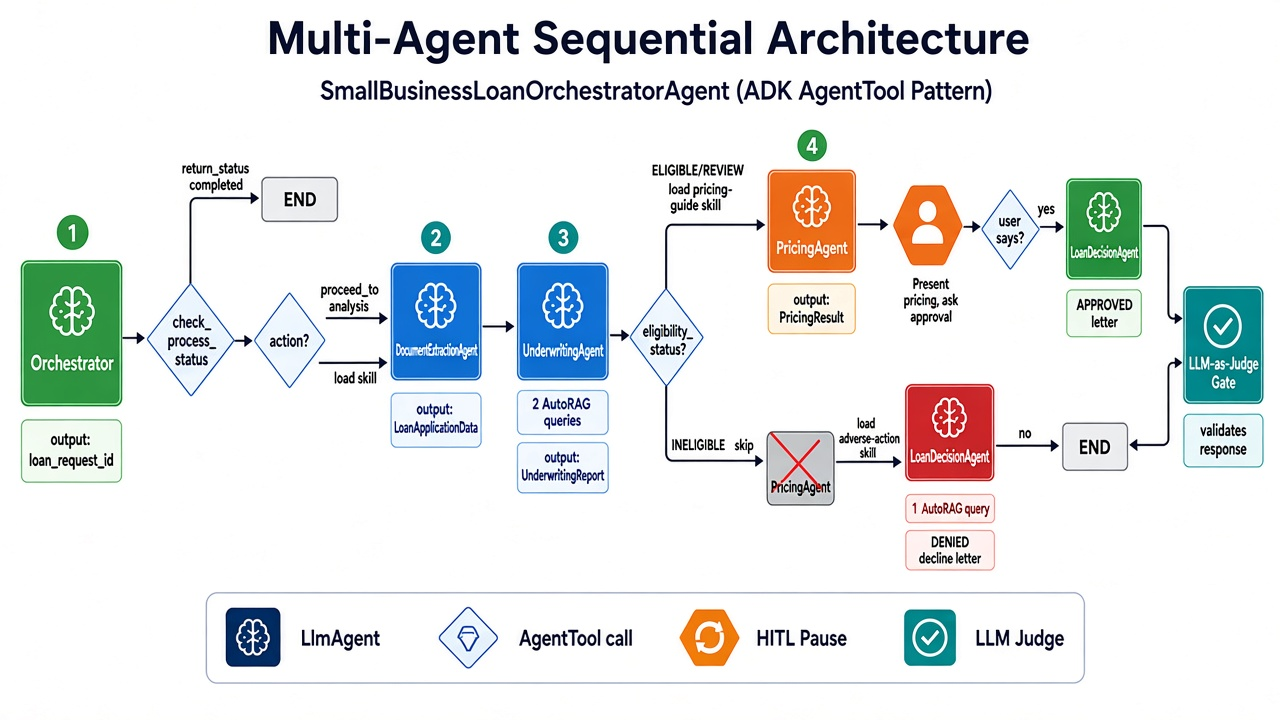
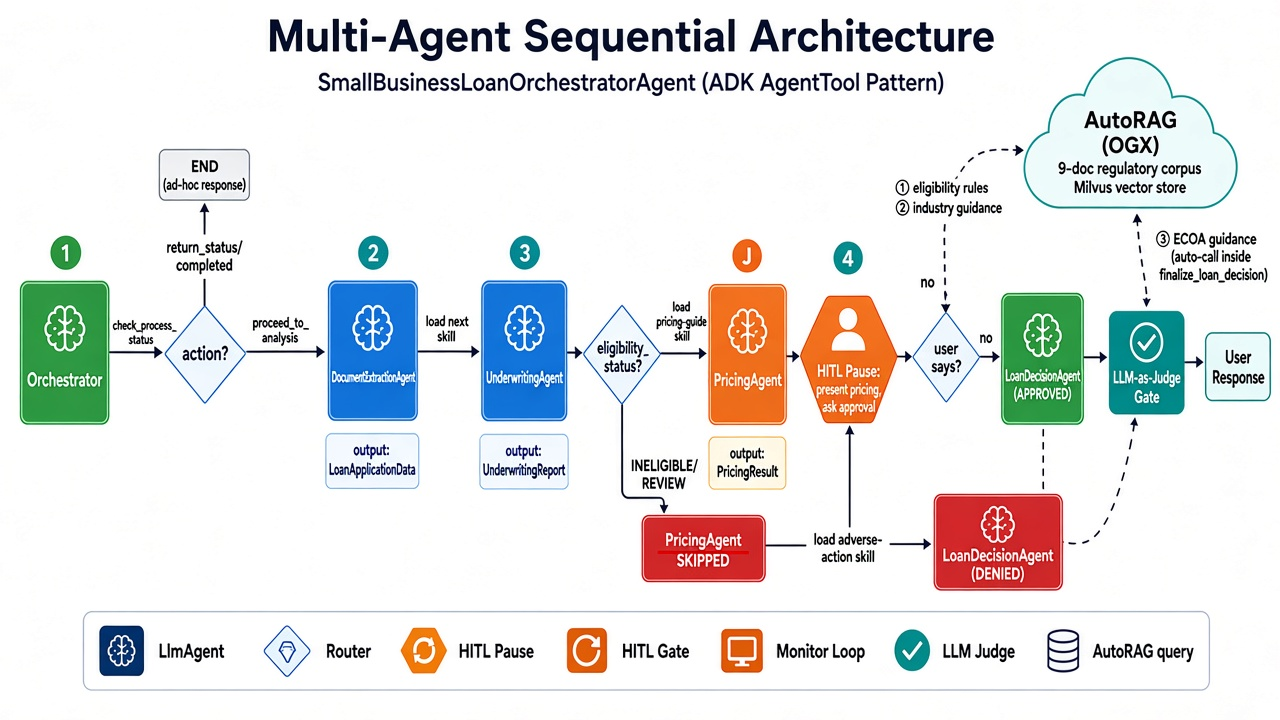
Fix architecture docs: add AutoRAG as explicit system participant across all diagrams
- §2 Pipeline: AutoRAG now shown as separate OGX system with 3 numbered
  query arrows (2 from UnderwritingAgent, 1 from LoanDecisionAgent)
- §2 Pipeline: Add 'Multi-Point AutoRAG Integration' section distinguishing
  LLM tool calls (retrieve_underwriting_context) from internal auto-calls
  (retrieve_regulatory_guidance inside finalize_loan_decision)
- §3 Connectivity: Add max_num_results=3, graceful degradation pattern,
  4th unused retrieve_pricing_guidance(), current vector_store_id
- §4 Tool Matrix: Add 'Internal AutoRAG Calls' section showing which tools
  make RAG queries internally; add cross-turn SQLite fallback detail
- §5 Data Flow: Add AutoRAG as sequence diagram participant with explicit
  query/response arrows and chunk counts; add _load_step_data_from_db()
  cross-turn fallback documentation
- Regenerate images 02, 04, 05 with AutoRAG as visible system
- Update speaker notes with RAG call distinction and query details

diff --git a/docs/architecture.md b/docs/architecture.md
@@ -94,13 +94,27 @@ The agent uses ADK's `AgentTool` pattern for sequential orchestration: 1 orchest
 
 **Source**: [`small_business_loan_agent/agent.py`](../small_business_loan_agent/agent.py)
 
-| Agent | `output_key` | Model | Tools | Callbacks |
+| Agent | `output_key` | Model | Tools | RAG Calls | Callbacks |
+|---|---|---|---|---|---|
+| **SmallBusinessLoanOrchestratorAgent** | — | Gemini 2.5 Flash | `SkillToolset`, `check_process_status`, `AgentTool(×4)` | — | `before_agent`: extract request ID · `before_tool`: halt/skip guard · `after_agent`: LLM-as-Judge |
+| **DocumentExtractionAgent** | `DocumentExtractionAgent_output` | Gemini 2.5 Flash | — (no tools) | — | `before_agent`: state check · `before_model`: inject document · `after_agent`: state logging |
+| **UnderwritingAgent** | `UnderwritingAgent_output` | Gemini 2.5 Flash | `get_internal_business_data`, `retrieve_underwriting_context` | 2 AutoRAG queries (LLM tool call) | `before_agent`: state check + load rules · `after_agent`: state logging + INELIGIBLE skip |
+| **PricingAgent** | `PricingAgent_output` | Gemini 2.5 Flash | `calculate_loan_pricing` | — | `before_agent`: state check · `after_agent`: state logging |
+| **LoanDecisionAgent** | `LoanDecisionAgent_output` | Gemini 2.5 Flash | `finalize_loan_decision` | 1 AutoRAG query (internal, auto) | `before_agent`: state check · `after_agent`: state logging + mark complete |
+
+### Multi-Point AutoRAG Integration
+
+The agent makes up to **3 targeted AutoRAG queries** per loan run, pulling only the most relevant regulatory text for each application's specific profile. AutoRAG queries are handled at two different levels:
+
+| Query | Function | Agent | Call Type | AutoRAG → OGX |
 |---|---|---|---|---|
-| **SmallBusinessLoanOrchestratorAgent** | — | Gemini 2.5 Flash | `SkillToolset`, `check_process_status`, `AgentTool(×4)` | `before_agent`: extract request ID · `before_tool`: halt/skip guard · `after_agent`: LLM-as-Judge |
-| **DocumentExtractionAgent** | `DocumentExtractionAgent_output` | Gemini 2.5 Flash | — (no tools) | `before_agent`: state check · `before_model`: inject document · `after_agent`: state logging |
-| **UnderwritingAgent** | `UnderwritingAgent_output` | Gemini 2.5 Flash | `get_internal_business_data`, `retrieve_underwriting_context` | `before_agent`: state check + load rules · `after_agent`: state logging + INELIGIBLE skip |
-| **PricingAgent** | `PricingAgent_output` | Gemini 2.5 Flash | `calculate_loan_pricing` | `before_agent`: state check · `after_agent`: state logging |
-| **LoanDecisionAgent** | `LoanDecisionAgent_output` | Gemini 2.5 Flash | `finalize_loan_decision` | `before_agent`: state check · `after_agent`: state logging + mark complete |
+| SBA eligibility rules | `retrieve_eligibility_rules()` | UnderwritingAgent | **LLM tool call** — the LLM decides to call `retrieve_underwriting_context()` with application facts | `/v1/vector_stores/{id}/search` |
+| Industry risk guidance | `retrieve_industry_guidance()` | UnderwritingAgent | **LLM tool call** — same tool, second query | `/v1/vector_stores/{id}/search` |
+| ECOA adverse action | `retrieve_regulatory_guidance()` | LoanDecisionAgent | **Internal function call** — called automatically inside `finalize_loan_decision()` on INELIGIBLE path | `/v1/vector_stores/{id}/search` |
+
+**Key distinction**: `retrieve_underwriting_context` is a registered ADK tool — the UnderwritingAgent LLM calls it with extracted application facts (industry, years_in_business, annual_revenue, loan_amount, naics_code). Internally it makes 2 AutoRAG searches. By contrast, `retrieve_regulatory_guidance` is called automatically inside `finalize_loan_decision` — the LoanDecisionAgent LLM never sees it as a tool.
+
+**Graceful degradation**: When AutoRAG is not configured (`AUTORAG_BASE_URL` unset), all retrieval functions return empty strings. UnderwritingAgent falls back to static `eligibility_rules.json` loaded by `before_agent_callback_with_state_check`. LoanDecisionAgent generates decline letters without regulatory text. No code change needed — `config.using_autorag()` gates all queries.
 
 ### Safety Features
 
@@ -159,13 +173,17 @@ graph TD
 
     DocAgent --> Missing{critical fields\nmissing?}
     Missing -->|yes| Halt["HALT\nmark_step_for_review\n→ ask user for data"]
-    Missing -->|no| UWAgent["2⃣ UnderwritingAgent\n2 AutoRAG queries\noutput: UnderwritingReport"]
+    Missing -->|no| UWAgent["2⃣ UnderwritingAgent\noutput: UnderwritingReport"]
 
-    UWAgent --> Eligible{eligibility_status?}
+    UWAgent -->|"LLM tool call"| RAG_UW["AutoRAG (OGX)\n2 queries:\n① eligibility rules\n② industry guidance"]
+    RAG_UW --> UWResult
+
+    UWResult["UnderwritingReport"] --> Eligible{eligibility_status?}
 
     Eligible -->|"INELIGIBLE"| SkipPrice["PricingAgent SKIPPED\n(auto-skip in callback)"]
     SkipPrice --> Skill3["load_skill\n(loan-adverse-action)"]
-    Skill3 --> LDAgent_Deny["4⃣ LoanDecisionAgent\n1 AutoRAG query\noutput: DENIED + decline letter"]
+    Skill3 --> LDAgent_Deny["4⃣ LoanDecisionAgent\noutput: DENIED + decline letter"]
+    LDAgent_Deny -->|"internal auto-call"| RAG_LD["AutoRAG (OGX)\n1 query:\n③ ECOA adverse action"]
 
     Eligible -->|"ELIGIBLE / REVIEW"| Skill2["load_skill\n(loan-pricing-guide)"]
     Skill2 --> PriceAgent["3⃣ PricingAgent\noutput: PricingResult"]
@@ -174,7 +192,7 @@ graph TD
     Approval -->|"yes"| LDAgent_Approve["4⃣ LoanDecisionAgent\noutput: APPROVED + approval letter"]
     Approval -->|"no"| Reject["Acknowledge rejection\n(END)"]
 
-    LDAgent_Deny --> Judge["after_agent:\nLLM-as-Judge gate"]
+    RAG_LD --> Judge["after_agent:\nLLM-as-Judge gate"]
     LDAgent_Approve --> Judge
     StatusReply --> Judge
     Judge --> Response["Final Response\nto User"]
@@ -210,13 +228,26 @@ The model factory selects the backend in priority order:
 
 ### AutoRAG Retrieval Details
 
-| Query | Function | Agent | What It Retrieves |
-|---|---|---|---|
-| SBA eligibility rules | `retrieve_eligibility_rules()` | UnderwritingAgent | Operating history, DSCR, loan-to-revenue, collateral thresholds |
-| Industry risk guidance | `retrieve_industry_guidance()` | UnderwritingAgent | NAICS-specific risk flags, prohibited codes (13 CFR § 120.110) |
-| ECOA adverse action | `retrieve_regulatory_guidance()` | LoanDecisionAgent | Adverse action notice requirements, 12 CFR § 1002.9 decline reason codes |
+**Source**: [`shared_libraries/rag_tools.py`](../small_business_loan_agent/shared_libraries/rag_tools.py), [`sub_agents/underwriting/rag_tools.py`](../small_business_loan_agent/sub_agents/underwriting/rag_tools.py)
 
-**Fallback**: When `AUTORAG_BASE_URL` is not set, UnderwritingAgent loads static rules from `eligibility_rules.json`. LoanDecisionAgent generates decline letters without regulatory RAG context.
+The shared `_search()` function calls AutoRAG's OGX API with `max_num_results=3` per query, returning up to 3 text chunks joined by double newlines.
+
+| # | Query | Function | Agent | Call Type | What It Retrieves |
+|---|---|---|---|---|---|
+| 1 | SBA eligibility rules | `retrieve_eligibility_rules()` | UnderwritingAgent | LLM tool call via `retrieve_underwriting_context()` | Operating history, DSCR, loan-to-revenue, collateral thresholds |
+| 2 | Industry risk guidance | `retrieve_industry_guidance()` | UnderwritingAgent | LLM tool call via `retrieve_underwriting_context()` | NAICS-specific risk flags, prohibited codes (13 CFR § 120.110) |
+| 3 | ECOA adverse action | `retrieve_regulatory_guidance()` | LoanDecisionAgent | Internal call inside `finalize_loan_decision()` | Adverse action notice requirements, 12 CFR § 1002.9 decline reason codes |
+| — | Pricing guidance | `retrieve_pricing_guidance()` | (unused) | — | Risk tier definitions, rate benchmarks — **defined but not yet wired** |
+
+**Query construction**: Each retrieval function builds a natural-language query from the application's specific profile. For example, `retrieve_eligibility_rules()` constructs: `"SBA 7(a) loan eligibility requirements for {industry} business with {years_in_business} years operating history, annual revenue {annual_revenue}, loan amount {loan_amount}"`.
+
+**Current vector store**: `vs_23c69157-2907-4576-8fe0-dc491de89d14` (seeded by `tools/seed_autorag.py`)
+
+**Fallback (graceful degradation)**:
+- When `AUTORAG_BASE_URL` is not set: all retrieval functions return empty strings. No code change needed — `config.using_autorag()` gates all queries.
+- When AutoRAG is configured but a search fails (network error, timeout): `_search()` catches `httpx.HTTPError`, logs a warning, and returns empty string. The agent continues without RAG context.
+- UnderwritingAgent fallback: `before_agent_callback_with_state_check` loads static `eligibility_rules.json` into session state when AutoRAG returns empty.
+- LoanDecisionAgent fallback: generates decline letters without regulatory text — still functional, just less compliant.
 
 ### TLS Verification
 
@@ -286,7 +317,7 @@ Which tools and skills are available to each agent.
 
 **Source**: [`small_business_loan_agent/agent.py`](../small_business_loan_agent/agent.py), sub-agent definitions in [`sub_agents/*/agent.py`](../small_business_loan_agent/sub_agents/)
 
-### Tools
+### Tools (LLM-callable)
 
 | Agent | check_process_status | AgentTool (Doc) | AgentTool (UW) | AgentTool (Price) | AgentTool (LD) | get_internal_business_data | retrieve_underwriting_context | calculate_loan_pricing | finalize_loan_decision | SkillToolset |
 |---|---|---|---|---|---|---|---|---|---|---|
@@ -297,6 +328,34 @@ Which tools and skills are available to each agent.
 | **LoanDecisionAgent** | | | | | | | | | ● | |
 
 ● = Tool available · (blank) = Not available
+
+### Internal AutoRAG Calls (not LLM-visible)
+
+In addition to the LLM-callable tools above, some tools make **internal AutoRAG queries** that the LLM never sees as separate tool calls:
+
+| Tool | Internal RAG Call | When | AutoRAG Query |
+|---|---|---|---|
+| `retrieve_underwriting_context` | `retrieve_eligibility_rules()` | Always (query 1 of 2) | SBA eligibility rules matching application profile |
+| `retrieve_underwriting_context` | `retrieve_industry_guidance()` | Always (query 2 of 2) | Industry-specific risk and NAICS ineligibility |
+| `finalize_loan_decision` | `retrieve_regulatory_guidance()` | INELIGIBLE path only | ECOA/Reg B adverse action notice requirements |
+
+The LLM sees `retrieve_underwriting_context` as ONE tool returning combined context. Internally it makes 2 separate AutoRAG searches. Similarly, `finalize_loan_decision` calls `retrieve_regulatory_guidance` automatically on the decline path — the LoanDecisionAgent LLM never sees a separate RAG tool.
+
+### Cross-Turn SQLite Fallback in `finalize_loan_decision`
+
+When a user approves in a fresh session (different from the one that ran underwriting/pricing), ADK session state may be empty. The `finalize_loan_decision` tool handles this via `_load_step_data_from_db()`:
+
+```
+finalize_loan_decision()
+  ├── Try: tool_context.state["DocumentExtractionAgent_output"]
+  │     └── Empty? → Load from SQLite via ProcessStateService
+  ├── Try: tool_context.state["UnderwritingAgent_output"]
+  │     └── Empty? → Load from SQLite
+  └── Try: tool_context.state["PricingAgent_output"]
+        └── Empty? → Load from SQLite
+```
+
+This ensures the approval letter can be generated even if the agent pod restarted between pricing and user approval.
 
 **Key design principle**: Only the orchestrator has `AgentTool` wrappers and `SkillToolset`. Sub-agents have `disallow_transfer_to_parent=True` and `disallow_transfer_to_peers=True` — they cannot autonomously transfer control. Each sub-agent has only the tools it needs for its specific job.
 
@@ -378,6 +437,16 @@ Every sub-agent execution is also persisted to SQLite via `ProcessStateService` 
 
 This dual-write enables **repair & resume**: if a pod restarts or the user returns later, `check_process_status` reloads all completed step data from SQLite into the new ADK session.
 
+### Cross-Turn SQLite Fallback
+
+Even with `check_process_status` reloading data, edge cases exist where session state is empty when `finalize_loan_decision` runs (e.g., the user's "yes" arrives in a fresh API session). The tool has a built-in fallback via `_load_step_data_from_db()` ([`loan_decision/tools.py`](../small_business_loan_agent/sub_agents/loan_decision/tools.py)):
+
+1. Try `tool_context.state["DocumentExtractionAgent_output"]` → if empty, load from SQLite
+2. Try `tool_context.state["UnderwritingAgent_output"]` → if empty, load from SQLite
+3. Try `tool_context.state["PricingAgent_output"]` → if empty, load from SQLite
+
+This ensures the approval or decline letter can always be generated regardless of session continuity.
+
 ### LLM-as-Judge Quality Gate
 
 After the orchestrator produces its final response, the `llm_judge_gate` after-agent callback makes a second LLM call to validate the response:
@@ -400,6 +469,7 @@ sequenceDiagram
     participant CPS as check_process_status
     participant Doc as DocumentExtractionAgent
     participant UW as UnderwritingAgent
+    participant RAG as AutoRAG (OGX)
     participant Price as PricingAgent
     participant LD as LoanDecisionAgent
     participant Judge as LLM-as-Judge
@@ -423,7 +493,11 @@ sequenceDiagram
 
     Orch->>UW: AgentTool call
     UW->>UW: get_internal_business_data()
-    UW->>UW: retrieve_underwriting_context() [2 RAG queries]
+    Note right of UW: LLM calls retrieve_underwriting_context()
+    UW->>RAG: Query ①: SBA eligibility rules for this profile
+    RAG-->>UW: ≤3 policy chunks
+    UW->>RAG: Query ②: industry risk + NAICS ineligibility
+    RAG-->>UW: ≤3 guidance chunks
     UW-->>Orch: UnderwritingReport
     UW->>DB: step completed + data
     Note right of DB: state.UnderwritingAgent_output
@@ -441,16 +515,24 @@ sequenceDiagram
         Judge-->>Orch: JudgeVerdict {is_valid: true}
 
         User->>Orch: "yes"
+        Note right of Orch: May be new session (pod restart)
+        Orch->>CPS: check_process_status()
+        CPS->>DB: load completed steps into session state
         Orch->>LD: AgentTool call
+        Note right of LD: _load_step_data_from_db() if session empty
         LD->>LD: finalize_loan_decision()
         LD-->>Orch: LoanDecisionResult (APPROVED)
         LD->>DB: step completed + mark_process_complete
+
     else INELIGIBLE
         Note right of UW: after_agent: auto-skip PricingAgent
         UW->>DB: PricingAgent status=skipped
         Orch->>Orch: load_skill("loan-adverse-action")
         Orch->>LD: AgentTool call
-        LD->>LD: finalize_loan_decision() [1 RAG query]
+        LD->>LD: finalize_loan_decision()
+        Note right of LD: Internal auto-call: retrieve_regulatory_guidance()
+        LD->>RAG: Query ③: ECOA adverse action notice requirements
+        RAG-->>LD: ≤3 regulatory chunks
         LD-->>Orch: LoanDecisionResult (DENIED)
         LD->>DB: step completed + mark_process_complete
     end

diff --git a/docs/demo-speaker-notes.md b/docs/demo-speaker-notes.md
@@ -39,10 +39,10 @@ Tell-Show-Tell format for each architecture diagram. Use these as talking points
 - **check_process_status** is ALWAYS the first tool call. It checks SQLite: is this a new application, a resume, a status check, or already completed? This is the repair & resume mechanism
 - **load_skill("loan-orchestration-protocol")** — the orchestrator loads the full workflow protocol as domain knowledge before doing anything. This keeps the LLM on-script
 - **DocumentExtractionAgent** — Gemini's multimodal capability reads the loan application (text or PDF). The `inject_document_into_request` before-model callback handles the document injection. Returns a structured `LoanApplicationData` Pydantic model
-- **UnderwritingAgent** — makes TWO AutoRAG queries: one for SBA eligibility rules matching this application's profile, one for industry-specific risk guidance. Falls back to static JSON rules if AutoRAG isn't configured. Returns an `UnderwritingReport` with ELIGIBLE, INELIGIBLE, or REVIEW
+- **UnderwritingAgent** — the LLM calls `retrieve_underwriting_context` as a tool, passing in the extracted application facts — industry, years in business, revenue, loan amount, NAICS code. Internally that one tool call makes TWO targeted AutoRAG queries to OGX: one for SBA eligibility rules matching this profile, one for industry-specific risk and NAICS ineligibility codes. Each query returns up to 3 chunks from the 9-document regulatory corpus. If AutoRAG isn't configured, it falls back to static JSON rules. Returns an `UnderwritingReport` with ELIGIBLE, INELIGIBLE, or REVIEW
 - **The branch point** — this is critical:
   - **ELIGIBLE/REVIEW**: PricingAgent calculates the rate, then the orchestrator STOPS and asks "Do you approve?" — genuine HITL
-  - **INELIGIBLE**: PricingAgent is auto-skipped (both in the before-tool callback and after-agent state callback), the orchestrator loads the adverse-action skill, and LoanDecisionAgent generates an ECOA-compliant decline letter with a third RAG query for regulatory guidance
+  - **INELIGIBLE**: PricingAgent is auto-skipped (both in the before-tool callback and after-agent state callback), the orchestrator loads the adverse-action skill, and LoanDecisionAgent calls `finalize_loan_decision`. Inside that tool — not as a separate LLM tool call — `retrieve_regulatory_guidance` automatically queries AutoRAG for ECOA/Regulation B text. The decline letter is grounded in actual regulatory requirements, not just the LLM's training
 - **LLM-as-Judge** — after EVERY orchestrator response, the `llm_judge_gate` makes a second LLM call that checks trajectory correctness, data grounding, and completeness. If it fails, the response is blocked. This is a financial application — wrong numbers are unacceptable
 
 ### TELL (key takeaway)
@@ -202,7 +202,8 @@ check_process_status → load_skill("loan-orchestration-protocol")
 
 - "Notice `check_process_status` is always the first tool call — it's the state machine entry point"
 - "The orchestrator loaded `loan-orchestration-protocol` skill before calling any agents — it's reading the bank's workflow protocol"
-- "Two AutoRAG queries in underwriting — one for eligibility policy, one for industry risk. These are targeted, not generic"
+- "Two AutoRAG queries in underwriting — one for eligibility policy, one for industry risk. These are targeted, not generic — the tool builds queries from the actual application facts like industry, years in business, and NAICS code"
+- "On the decline path, notice the ECOA regulatory text was retrieved automatically inside `finalize_loan_decision` — the LLM didn't have to decide to call a RAG tool, it just happened. Three queries total across the pipeline, each hitting OGX and returning up to 3 chunks"
 - "The HITL pause is real — the orchestrator stops and waits for my explicit 'yes' before generating the approval letter"
 - "For the decline, notice PricingAgent was automatically skipped — the before-tool callback saw INELIGIBLE and blocked it"
 - "The LLM-as-Judge checked the response before I saw it — trajectory correct, data grounded, response complete"
